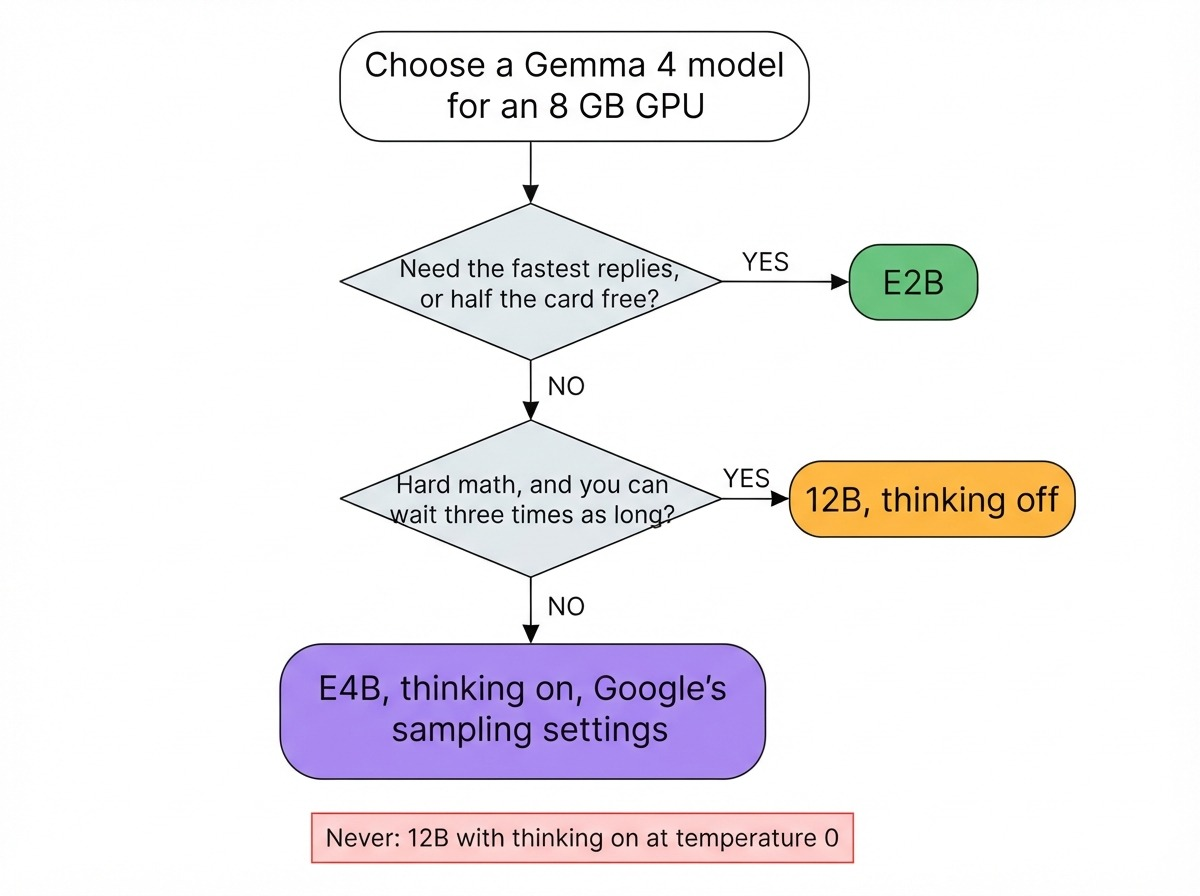
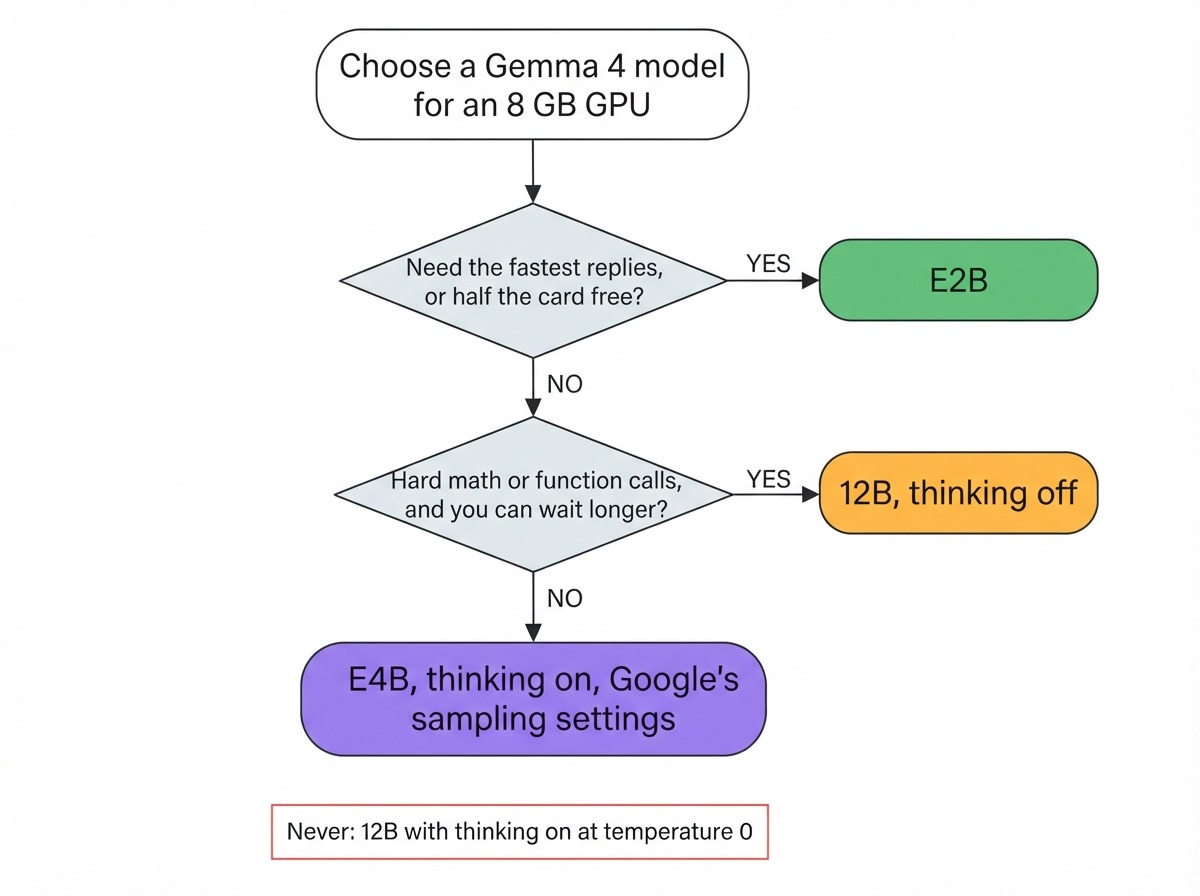
docs: E2B/E4B/12B 3050 article: function calls on the 12B branch, 157-problem limit stated, new flowchart

diff --git a/docs/gemma4-e2b-e4b-12b-3050/evidence/audit_stats.py b/docs/gemma4-e2b-e4b-12b-3050/evidence/audit_stats.py
@@ -315,6 +315,14 @@ rec("sampled-cut", "Google's settings, replies at the limit: E2B 0/217, E4B 0/21
     {"E2B": [0, 217], "E4B": [0, 217], "12B": [20, 404]}, {m: [cut[m], nrep[m]] for m in cut},
     "VERIFIED" if good else "MISMATCH", "HOLDS" if good else "OVERSTATED", "count")
 
+# 9. Step 6 caveat: on the same 157 at temperature 0, thinking off, 12B 152 vs E4B 146 is within chance
+b, c, n = pair(GR["E4B-off"], GR["12B-off"])
+p = mcnemar(b, c)
+rep = (b, c) == (2, 8) and abs(p - 0.109) / 0.109 < 0.01
+rec("first157-E4B-vs-12B-greedy", "first 157, temperature 0, thinking off: E4B 146 vs 12B 152, +8 / -2, p = 0.109",
+    "Step 6", {"b": 2, "c": 8, "p": 0.109}, {"b": b, "c": c, "n": n, "p": float(f"{p:.4g}")},
+    "VERIFIED" if rep else "MISMATCH", "HOLDS" if p >= 0.05 else "OVERSTATED", "exact McNemar")
+
 json.dump(
     {"article": "docs/gemma4-e2b-e4b-12b-3050/devto-gemma4-e2b-e4b-12b-3050.md", "claims": claims},
     open(os.path.join(HERE, "stat_audit.json"), "w"),

diff --git a/docs/gemma4-e2b-e4b-12b-3050/devto-gemma4-e2b-e4b-12b-3050.md b/docs/gemma4-e2b-e4b-12b-3050/devto-gemma4-e2b-e4b-12b-3050.md
@@ -12,7 +12,7 @@ This article provides a step by step comparison of three Gemma 4 models on one l
 
 https://github.com/xbill9/gemma4-dev/tree/main/docs/gemma4-e2b-e4b-12b-3050
 
-The short version: serve E4B with thinking on and Google's sampling settings. Take E2B when speed or memory comes first, and the 12B with thinking off for hard math when you can wait about three times as long. Never run the 12B with thinking on at temperature 0: it works out the answer and then argues with the question until it runs out of tokens.
+The short version: serve E4B with thinking on and Google's sampling settings. Take E2B when speed or memory comes first, and the 12B with thinking off for hard math or function calls when you can wait longer. Never run the 12B with thinking on at temperature 0: it works out the answer and then argues with the question until it runs out of tokens.
 
 ---
 
@@ -20,10 +20,10 @@ The short version: serve E4B with thinking on and Google's sampling settings. Ta
 
 Answer two questions in order and stop at the first yes.
 
-![Decision flow: need the fastest replies or half the card free leads to E2B; hard math and you can wait three times as long leads to the 12B with thinking off; otherwise E4B with thinking on and Google's sampling settings; never the 12B with thinking on at temperature 0](https://raw.githubusercontent.com/xbill9/gemma4-dev/main/docs/gemma4-e2b-e4b-12b-3050/decision-flow.fbbdc471.jpg)
+![Decision flow: need the fastest replies or half the card free leads to E2B; hard math or function calls and you can wait longer leads to the 12B with thinking off; otherwise E4B with thinking on and Google's sampling settings; never the 12B with thinking on at temperature 0](https://raw.githubusercontent.com/xbill9/gemma4-dev/main/docs/gemma4-e2b-e4b-12b-3050/decision-flow.91af14ff.jpg)
 
 1. **Do you need the fastest replies, or half the card free?** Use **E2B**: 3,610 MiB with the full context and 3.72 seconds per GSM8K problem, for the lowest scores of the three.
-2. **Is it hard math, and can you wait about three times as long?** Use the **12B with thinking off**: with Google's settings it solved 19 of 30 AIME problems against 15 for E4B with thinking on, in 3.07 times the time. That gap is within chance; against E4B with thinking off (10 of 30) it is beyond chance.
+2. **Is it hard math or function calls, and can you wait longer?** Use the **12B with thinking off**. With Google's settings it solved 19 of 30 AIME problems against 15 for E4B with thinking on, in 3.07 times the time; that gap is within chance, and against E4B with thinking off (10 of 30) it is beyond chance. On function calls (BFCL simple, 400 problems, temperature 0, October runs) it scored 0.9500 against E4B's 0.9125, a paired gain of +0.0375 with a 95% range of +0.0100 to +0.0650, above zero.
 3. **Otherwise** use **E4B with thinking on and Google's settings**: 153 of 157 GSM8K problems, level with the 12B, no reply at the token limit, and the full 131,072-token context in 6,430 MiB.
 
 ---
@@ -186,6 +186,8 @@ Each model's `generation_config.json` sets temperature 1.0, top-k 64 and top-p 0
 - **E4B with thinking on against the 12B with thinking off, both Google's settings:** 153 each, 1 problem only E4B got and 1 only the 12B got (p = 1). The 12B took 1.75 times as long.
 - **E2B:** no change beyond chance (p = 0.804).
 
+157 problems are too few to show a gap as small as the 12B's lead over E4B on all 1,319. At temperature 0 with thinking off, the 12B's 3.3-point lead on the full set is beyond chance (p = 8.91e-7), but on these same 157 it is 152 against 146, +8 / −2, within chance (p = 0.109). So "level" here means no difference was found on 157 problems.
+
 **AIME 2025, 30 problems, Google's settings**
 
 | | E2B | E4B | 12B |
@@ -240,7 +242,7 @@ Benchmarks usually run at temperature 0 so the results repeat. For the 12B with 
 
 - **E2B.** 🟢 Fastest, smallest, the full context in 3,610 MiB. ❌ Lowest scores: 37 fewer GSM8K problems than E4B and 80 fewer than the 12B.
 - **E4B.** 🟢 With thinking on and Google's settings, level with the 12B on GSM8K in 0.57 times its time. 🟢 Never hit the token limit, in 11,009 replies. 🟢 The best drafter gain, up to 2.39x. 🟢 The full context. ⚠ 1.75 times E2B's time.
-- **12B.** 🟢 The most right answers with thinking off, beyond chance over E4B. 🟢 The most AIME problems with Google's settings, 19 and 21 of 30. ❌ 2.56 times E4B's time and 7,294 MiB of the card's 8 GB. ❌ Loops at temperature 0 with thinking on, and on some hard problems with it off.
+- **12B.** 🟢 The most right answers with thinking off, beyond chance over E4B. 🟢 The most AIME problems with Google's settings, 19 and 21 of 30. 🟢 Function calls: 0.9500 on BFCL against E4B's 0.9125, beyond chance (October runs). ❌ 2.56 times E4B's time and 7,294 MiB of the card's 8 GB. ❌ Loops at temperature 0 with thinking on, and on some hard problems with it off.
 
 ---
 
@@ -248,7 +250,7 @@ Benchmarks usually run at temperature 0 so the results repeat. For the 12B with 
 
 **Default: E4B with thinking on and Google's sampling settings.** The 12B is the largest model that fits and the most accurate with thinking off, so it looks like the pick. Run E4B the way Google ships it and it matched the 12B on the first 157 GSM8K problems in 0.57 times the time, never hit the token limit, and kept the full 131,072-token context with 1,762 MiB of the card to spare. With thinking off it is the 0.9295 model, and its drafter makes it about twice as fast.
 
-**Hard math, when you can wait: the 12B with thinking off.** It answered 60 GSM8K problems E4B missed and missed 17 E4B answered, both at temperature 0, and led AIME with Google's settings. Serve it with its drafter.
+**Hard math or function calls, when you can wait: the 12B with thinking off.** It answered 60 GSM8K problems E4B missed and missed 17 E4B answered, both at temperature 0, led AIME with Google's settings, and scored 0.9500 on function calls against E4B's 0.9125. Serve it with its drafter.
 
 **Smallest and fastest: E2B.** It uses 3,610 MiB and answers in 3.72 seconds per GSM8K problem.
 
@@ -260,7 +262,8 @@ Benchmarks usually run at temperature 0 so the results repeat. For the 12B with 
 
 The goal of this article was to compare Gemma 4 E2B, E4B and 12B on one 8 GB card and say which to serve. The key to the solution was running all three on the same 1,349 problems with the same settings, so every comparison is paired problem by problem. The results were:
 
-- 🟢 E4B with thinking on and Google's sampling settings matched the 12B on the first 157 GSM8K problems, 153 each, in 0.55 hours against 0.96.
+- 🟢 E4B with thinking on and Google's sampling settings matched the 12B on the first 157 GSM8K problems, 153 each, in 0.55 hours against 0.96; 157 problems are too few to show a gap of a few points.
+- 🟢 The 12B leads on function calls: 0.9500 on BFCL against E4B's 0.9125 (October runs).
 - 🟢 Thinking off at temperature 0, every step up in size scored higher on GSM8K beyond chance: 0.9014, 0.9295, 0.9621.
 - ⚠ Every step up in size took longer: 1.36, 2.38 and 6.10 hours for GSM8K.
 - ⚠ At temperature 0, thinking doubled the time on E2B and E4B and changed no score beyond chance.
@@ -268,7 +271,7 @@ The goal of this article was to compare Gemma 4 E2B, E4B and 12B on one 8 GB car
 - 🟢 Google's sampling settings stopped the loop: the 12B with thinking on got 151 of 157, level with thinking off, at 5.30 times the time; the cache type made no difference.
 - 🟢 The drafter made every model 1.75 to 2.39 times faster on GSM8K and changed no score.
 
-Scope: one RTX 3050 OEM with 8 GB in one desktop, llama.cpp `7182ef71e`, one run of each setting, exact Q4_0 repacks of Google's QAT weights, temperature 0 unless stated, one request at a time, a 32,768-token reply limit, 2026-11-16 to 22. GSM8K is all 1,319 test problems and AIME 2025 is papers I and II. The 12B's GSM8K thinking-on run covers the first 157 problems. The runs with Google's sampling settings are one seed each (two for the 12B's AIME with thinking on), cover 157 GSM8K problems, and ran without a drafter; E2B and E4B with thinking off ran AIME only. The 12B's drafter figures come from an October run with a different cache and context. Times move with clock and temperature. The 26B and 31B also run on this card with part of the model in system RAM; they are outside this comparison.
+Scope: one RTX 3050 OEM with 8 GB in one desktop, llama.cpp `7182ef71e`, one run of each setting, exact Q4_0 repacks of Google's QAT weights, temperature 0 unless stated, one request at a time, a 32,768-token reply limit, 2026-11-16 to 22. GSM8K is all 1,319 test problems and AIME 2025 is papers I and II. The 12B's GSM8K thinking-on run covers the first 157 problems. The runs with Google's sampling settings are one seed each (two for the 12B's AIME with thinking on), cover 157 GSM8K problems, and ran without a drafter; E2B and E4B with thinking off ran AIME only. Function-call scores come from October runs at temperature 0 with thinking off: the 12B on llama.cpp `7182ef71e` at 24,576 tokens, E4B on `77c4540ce` at 131,072; BFCL with Google's settings is untested. The 12B's drafter figures come from an October run with a different cache and context. Times move with clock and temperature. The 26B and 31B also run on this card with part of the model in system RAM; they are outside this comparison.
 
 The strategy for choosing a Gemma 4 size for a small GPU was validated with an incremental step by step approach.
 
